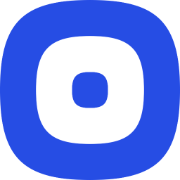
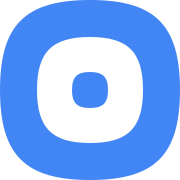
feat(website): redesign home page with container queries and update branding

diff --git a/website/index.html b/website/index.html
@@ -5,64 +5,54 @@
     <meta name="viewport" content="width=device-width, initial-scale=1.0" />
     <meta
       name="description"
-      content="Minimalist CSS Framework. No JavaScript. Raw CSS. 13.8 KB minified."
+      content="Minimalist CSS Framework. No JavaScript. Raw CSS. 14 KB minified."
     />
     <meta name="author" content="David Kaufmann" />
     <title>Purus CSS</title>
     <link rel="apple-touch-icon" href="media/apple-touch-icon.png" />
+    <link rel="icon" type="image/svg+xml" href="media/logo.svg" />
     <link rel="icon" type="image/x-icon" href="media/favicon.ico" />
     <link rel="stylesheet" type="text/css" href="css/purus.min.css" />
     <link rel="stylesheet" type="text/css" href="css/website.css" />
   </head>
   <body>
     <div class="container fill-vertical-space">
-      <header class="text-center">
-        <div class="site-brand">
-          <img
-            class="site-logo"
-            alt=""
-            src="media/apple-touch-icon.png"
-            width="180"
-            height="180"
-          />
-          <h1>Purus <span>CSS</span></h1>
+      <header class="home-header text-center">
+        <div class="home-intro">
+          <div class="site-brand">
+            <img
+              class="site-logo"
+              alt=""
+              src="media/logo.svg"
+              width="180"
+              height="180"
+            />
+            <h1>Purus CSS</h1>
+          </div>
+          <p class="home-tagline">Minimalist CSS framework</p>
+          <p class="home-meta">No JavaScript. Raw CSS. 14 KB minified.</p>
+          <nav class="home-resources" aria-label="CSS resources">
+            <ul>
+              <li>
+                <a
+                  href="https://raw.githubusercontent.com/kaufmann-dev/purus-css/main/css/purus.css"
+                  >Source CSS</a
+                >
+                ·
+                <a
+                  href="https://raw.githubusercontent.com/kaufmann-dev/purus-css/main/css/purus.min.css"
+                  >Minified CSS</a
+                >
+                ·
+                <a
+                  href="https://cdn.jsdelivr.net/gh/kaufmann-dev/purus-css/css/purus.min.css"
+                  >JSDelivr</a
+                >
+              </li>
+            </ul>
+          </nav>
         </div>
-        <h3>Minimalist CSS Framework</h3>
-        <p>
-          No JavaScript. Raw CSS.<br />
-          <small>13.8 KB minified</small>
-        </p>
       </header>
-      <div class="text-center">
-        <a
-          class="button mb"
-          href="https://github.com/kaufmann-dev/purus-css/archive/refs/heads/main.zip"
-          >Download</a
-        >
-        <a class="button mb" href="https://github.com/kaufmann-dev/purus-css"
-          >GitHub</a
-        >
-        <a
-          class="button mb"
-          href="https://cdn.jsdelivr.net/gh/kaufmann-dev/purus-css/css/purus.min.css"
-          >JSDelivr</a
-        >
-        <nav class="m-lg">
-          <ul>
-            <li>
-              <a
-                href="https://raw.githubusercontent.com/kaufmann-dev/purus-css/main/css/purus.css"
-                >Source CSS</a
-              >
-              ·
-              <a
-                href="https://raw.githubusercontent.com/kaufmann-dev/purus-css/main/css/purus.min.css"
-                >Minified CSS</a
-              >
-            </li>
-          </ul>
-        </nav>
-      </div>
       <div>
         <h2>Key features</h2>
         <ul>

diff --git a/website/css/website.css b/website/css/website.css
@@ -21,39 +21,71 @@
     Arial, sans-serif, "Apple Color Emoji", "Segoe UI Emoji";
 }
 
+.home-header {
+  margin: 3.5rem 0 3.25rem;
+}
+
+.home-intro {
+  container-type: inline-size;
+  width: min(100%, 15rem);
+  margin: 0 auto;
+}
+
 .site-brand {
   display: flex;
   align-items: center;
   justify-content: center;
-  gap: 1rem;
-  margin: 50px 0 40px;
+  gap: 0.625rem;
 }
 
 .site-brand h1 {
   margin: 0;
-  font-size: clamp(3.5rem, 14vw, 6rem);
-  font-weight: 500;
+  color: var(--black);
+  font-size: 17.8cqi;
+  font-weight: 600;
+  letter-spacing: -0.025em;
   line-height: 1;
-}
-
-.site-brand h1 span {
-  color: var(--primary);
-  font-weight: 700;
+  white-space: nowrap;
 }
 
 .site-logo {
-  width: clamp(4.5rem, 18vw, 7rem);
+  width: 15.5cqi;
   height: auto;
 }
 
+.home-tagline {
+  margin: 1rem 0 0;
+  font-size: 8.23cqi;
+  font-weight: 600;
+  line-height: 1.4;
+  white-space: nowrap;
+}
+
+.home-meta {
+  margin: 0.25rem 0 0;
+  color: var(--grey-text);
+  font-size: 5.69cqi;
+  line-height: 1.5;
+  white-space: nowrap;
+}
+
+.home-resources {
+  margin-top: 1rem;
+  font-size: 6.15cqi;
+  line-height: 1.5;
+  white-space: nowrap;
+}
+
+.home-resources li {
+  display: inline;
+}
+
 @media (max-width: 30rem) {
-  .site-brand {
-    flex-direction: column;
-    gap: 0.75rem;
-    margin: 40px 0 32px;
+  .home-header {
+    margin: 2.25rem 0 2.5rem;
   }
 
-  .site-brand h1 {
-    font-size: 3.5rem;
+  .home-tagline {
+    margin-top: 0.875rem;
   }
 }

diff --git a/website/starter-site/index.html b/website/starter-site/index.html
@@ -5,11 +5,12 @@
     <meta name="viewport" content="width=device-width, initial-scale=1.0" />
     <meta
       name="description"
-      content="Starter site | Minimalist CSS Framework. No JavaScript. Raw CSS. 13.8 KB minified."
+      content="Starter site | Minimalist CSS Framework. No JavaScript. Raw CSS. 14 KB minified."
     />
     <meta name="author" content="David Kaufmann" />
     <title>Starter site | Purus CSS</title>
     <link rel="apple-touch-icon" href="../media/apple-touch-icon.png" />
+    <link rel="icon" type="image/svg+xml" href="../media/logo.svg" />
     <link rel="icon" type="image/x-icon" href="../media/favicon.ico" />
     <link rel="stylesheet" type="text/css" href="../css/purus.min.css" />
     <link rel="stylesheet" type="text/css" href="../css/website.css" />

diff --git a/website/demo/index.html b/website/demo/index.html
@@ -5,11 +5,12 @@
     <meta name="viewport" content="width=device-width, initial-scale=1.0" />
     <meta
       name="description"
-      content="Demo | Minimalist CSS Framework. No JavaScript. Raw CSS. 13.8 KB minified."
+      content="Demo | Minimalist CSS Framework. No JavaScript. Raw CSS. 14 KB minified."
     />
     <meta name="author" content="David Kaufmann" />
     <title>Demo | Purus CSS</title>
     <link rel="apple-touch-icon" href="../media/apple-touch-icon.png" />
+    <link rel="icon" type="image/svg+xml" href="../media/logo.svg" />
     <link rel="icon" type="image/x-icon" href="../media/favicon.ico" />
     <link rel="stylesheet" type="text/css" href="../css/purus.min.css" />
     <link rel="stylesheet" type="text/css" href="../css/website.css" />

diff --git a/README.md b/README.md
@@ -1,5 +1,5 @@
 <p align="center">
-  <img src="website/media/apple-touch-icon.png" width="120" alt="Purus CSS logo">
+  <img src="website/media/logo.svg" width="120" alt="Purus CSS logo">
 </p>
 
 # Purus CSS
@@ -10,7 +10,7 @@
 No JavaScript. Raw CSS.
 ```
 
-13.8 KB minified.
+14 KB minified.
 
 ## Get Started
 
